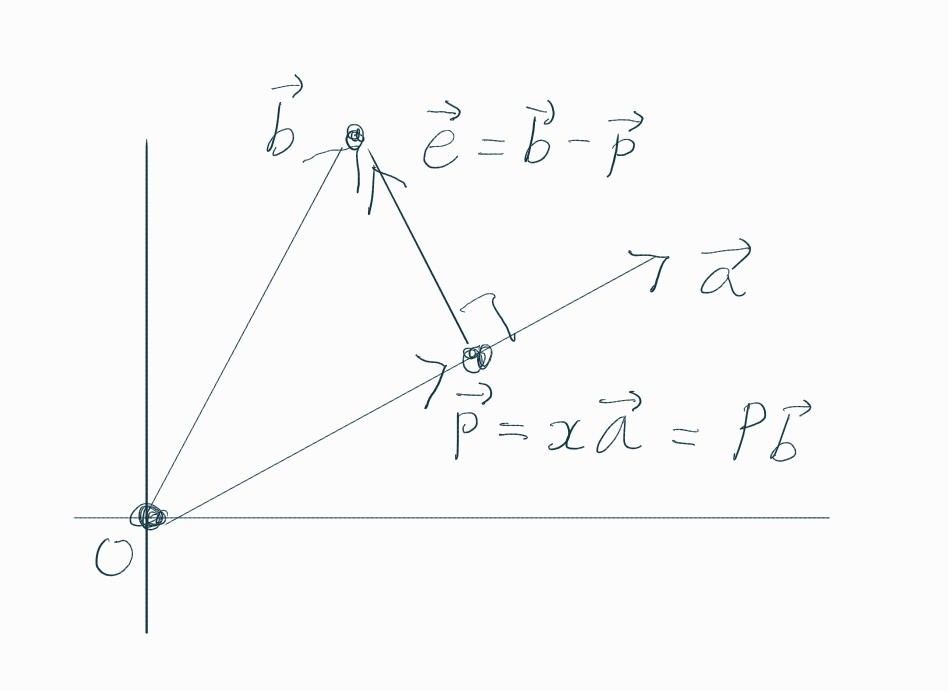
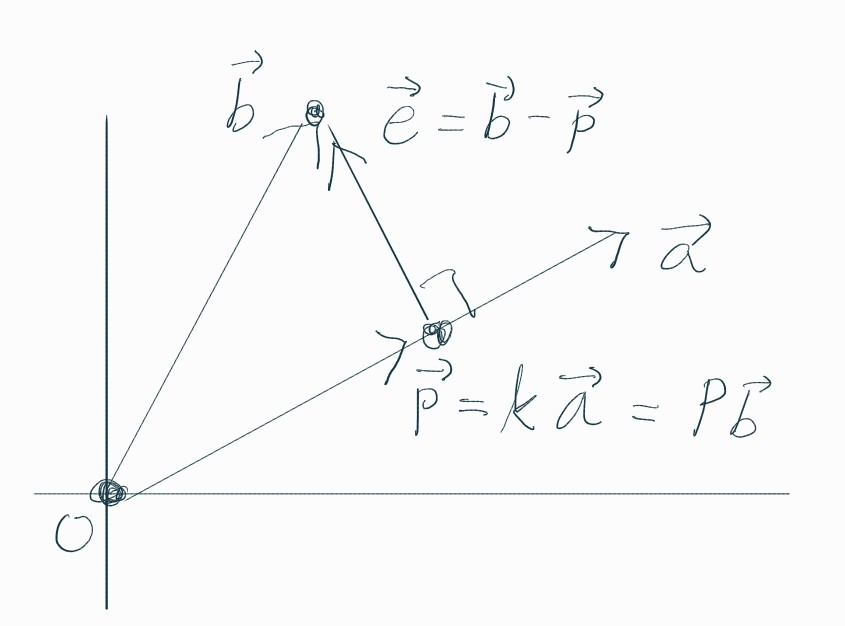
Lecture 15 v5

diff --git a/01_Foundational_Concepts/LinearAlgebra_MIT_GilbertStrang_18.06/lecture_note_14_16.md b/01_Foundational_Concepts/LinearAlgebra_MIT_GilbertStrang_18.06/lecture_note_14_16.md
@@ -126,6 +126,9 @@ $`\Big( \because\quad rank(A) = n - dim(N(A)) = n - dim(N(A^{T}A)) = rank(A^{T}A
 # 📚 Lecture 15: Projections onto subspaces
 
 **○ Projections**
+<p align="center">
+    <img src="images/lecture_15_01.jpg" alt="img_15_01" width="400">
+</p>
 
 ```math
 \begin{align}
@@ -158,8 +161,10 @@ Find $\vec{\hat{x}}$<br>
 key : $(\vec{e} = \vec{b}-\vec{p} = \vec{b}-A\vec{\hat{x}})$ is perpendicular to the plane.
 
 ```math
-e (= b-Ax) \in N(A^{T})
+\begin{align}
+e (= b-Ax) \in N(A^{T}) \\
 e \perp C(A)
+\end{align}
 ```
 
 ```math
@@ -198,7 +203,34 @@ P^{2} = PP {} &= (A(A^{T}A)^{-1}A^{T})(A(A^{T}A)^{-1}A^{T}) \\
 &= P
 \end{align}
 ```
+<br>
 
 **○ Least Squares**
 
-Fitting by a line
+- Fitting by a line
+<!-- ![LeastSquares-15-01](images/lecture_15_02.jpg) -->
+<p align="center">
+    <img src="images/lecture_15_02.jpg" alt="img_15_02" width="400">
+</p>
+
+For 3 points : $[(1,1), (2,2), (3,2)]$
+
+```math
+\begin{align}
+b = c + dt \\\\
+\begin{cases}
+c + d = 1 \\
+c + 2d = 2 \\
+c + 3d = 2
+\end{cases} \\\\
+Ax = b \quad\text{→}\quad \begin{bmatrix} 1 & 1 \\ 1 & 2 \\ 1 & 3 \end{bmatrix}\begin{bmatrix} c \\ d \end{bmatrix} = \begin{bmatrix} 1 \\ 2 \\ 2 \end{bmatrix}
+\end{align}
+```
+
+There is no solution for this system,<br>
+but we can find the best solution multiplying $A^{T}$.<br>
+$(A\vec{x} = \vec{b})$ → $(A^{T}A\vec{\hat{x}} = A^{T}\vec{b})$
+
+
+
+
